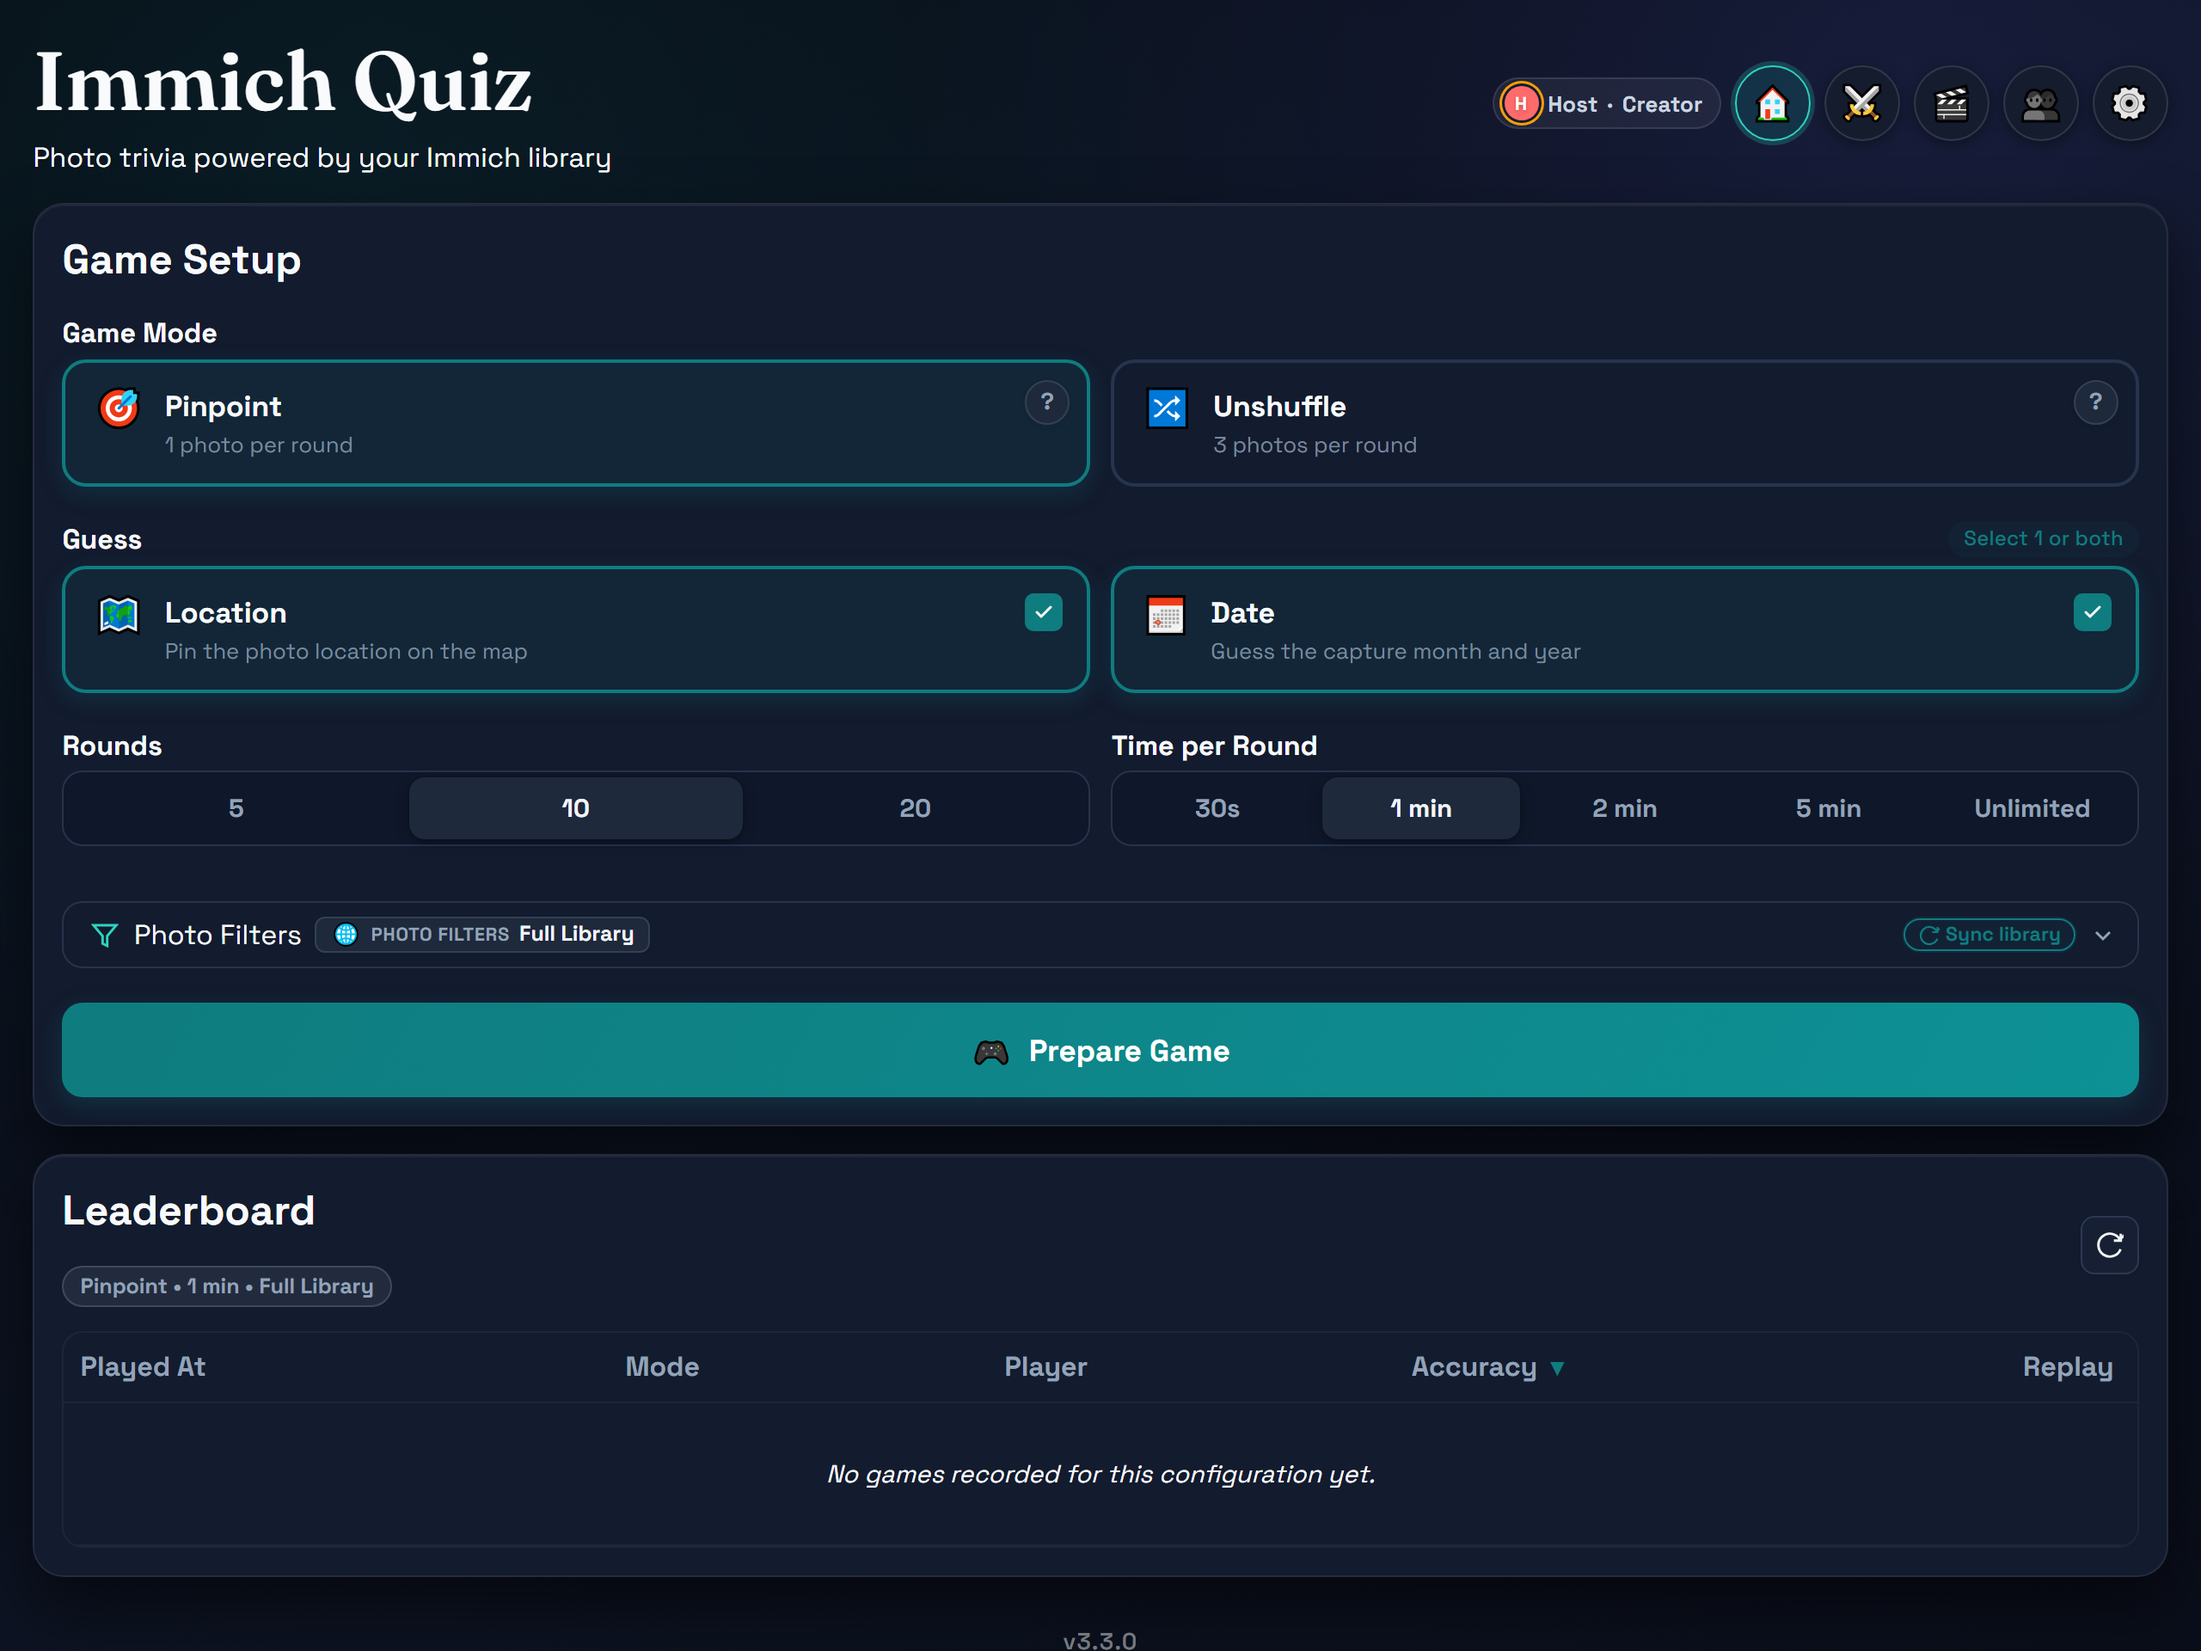
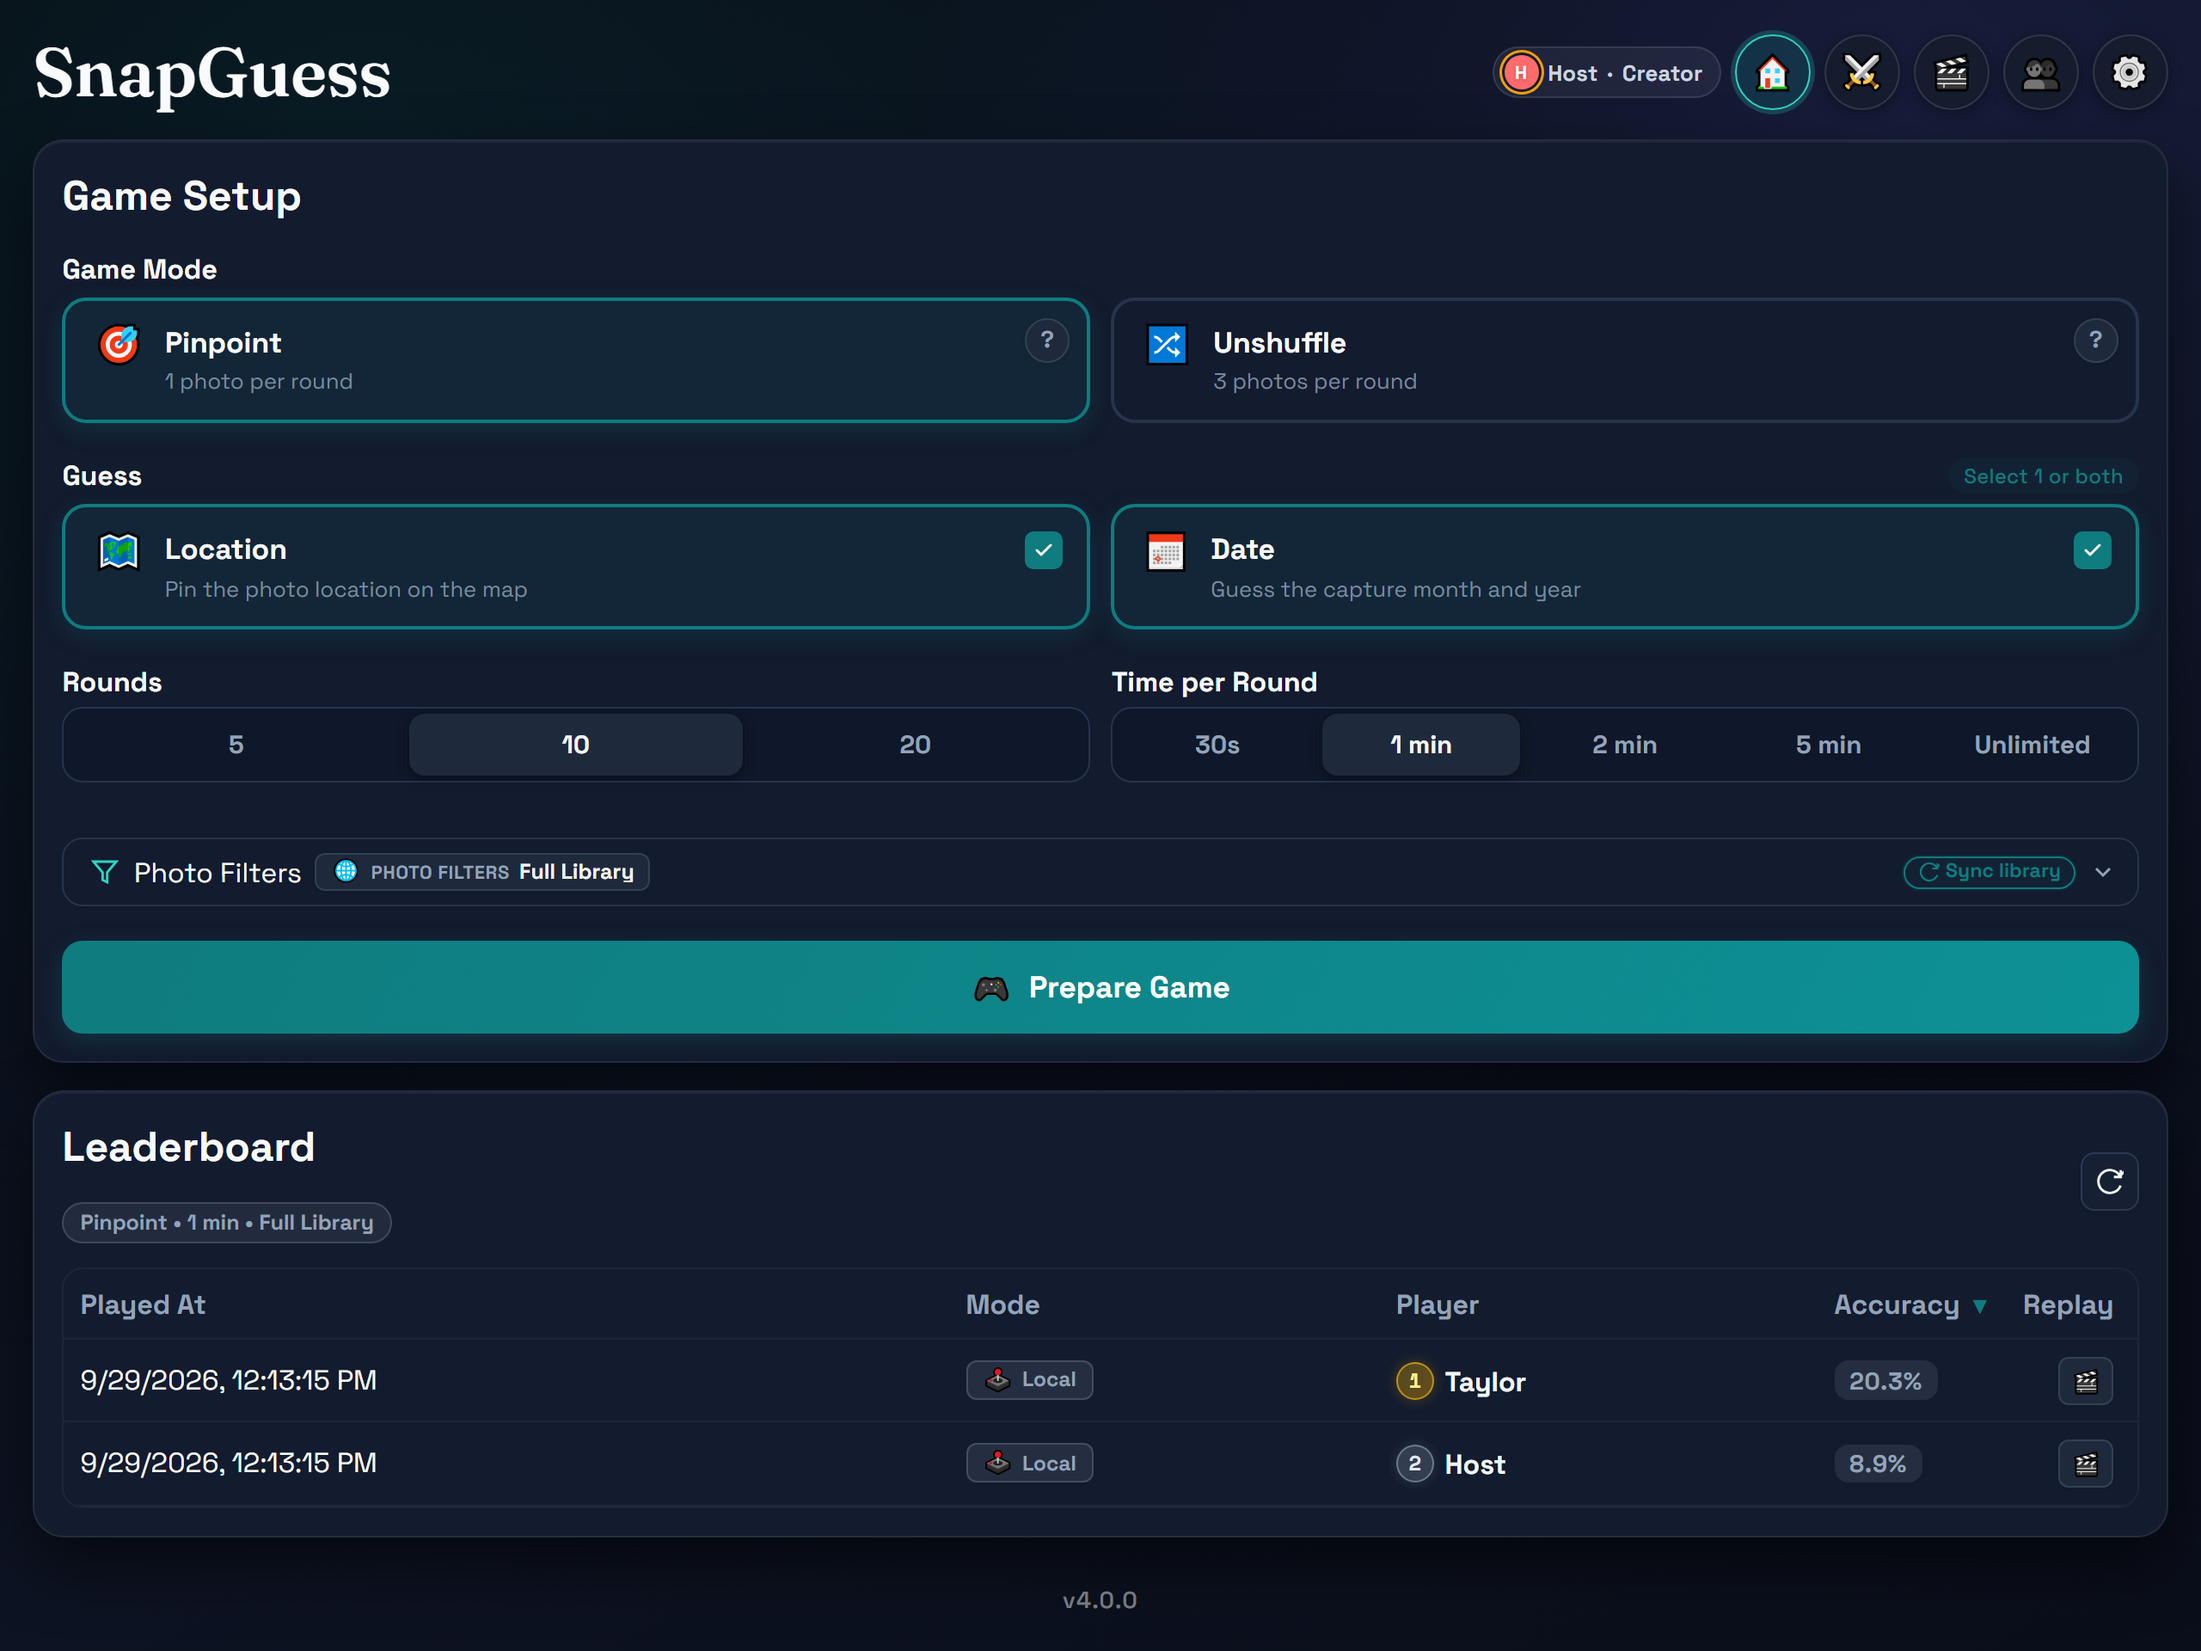
remove stale references

diff --git a/scripts/generate_screenshots.py b/scripts/generate_screenshots.py
@@ -1,6 +1,6 @@
 #!/usr/bin/env python3
 """Automated script to generate high-resolution, privacy-safe, anonymized screenshots
-for Immich Quiz documentation and README.
+for SnapGuess documentation and README.
 """
 
 from __future__ import annotations
